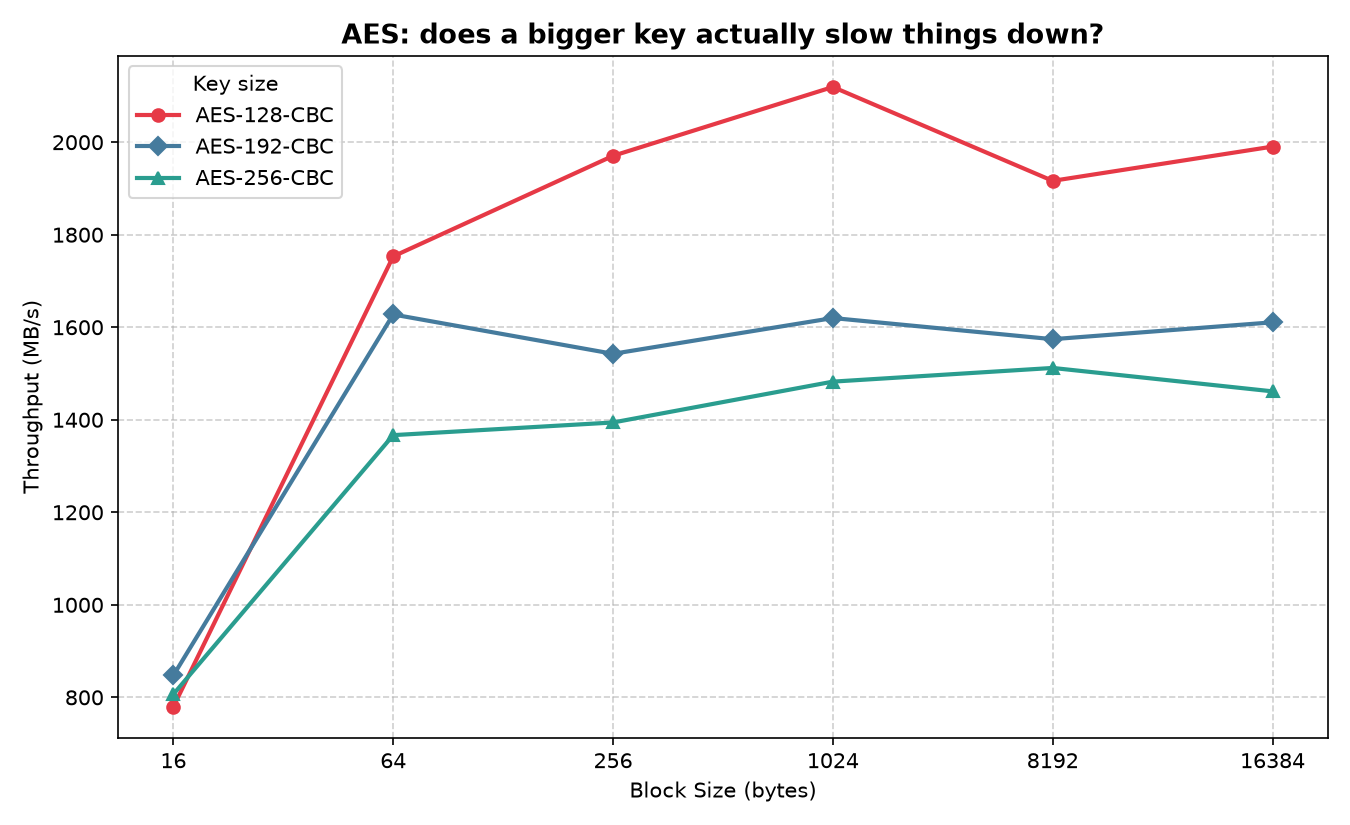
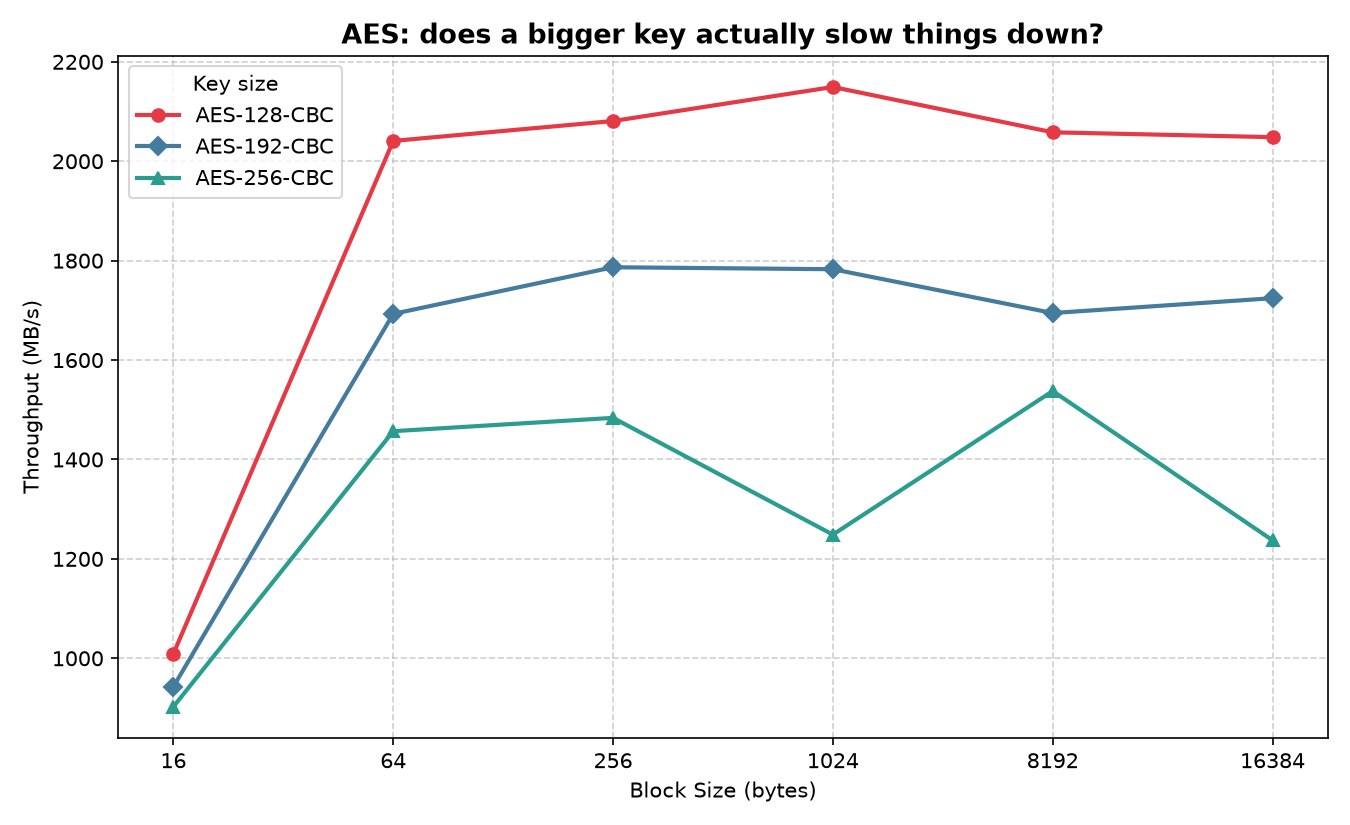
Code cleanup

diff --git a/main.py b/main.py
@@ -7,7 +7,7 @@ import task3_performance
 
 
 def run_task1():
-    print("\n=== Task 1: ECB vs CBC ===")
+    print("\nECB vs CBC")
 
     bmp_path = "mustang.bmp"
     ecb_out = "mustang_ecb.bmp"
@@ -32,7 +32,7 @@ def run_task1():
     axes[0].axis("off")
 
     axes[1].imshow(Image.open(ecb_out))
-    axes[1].set_title("ECB\n(yeah you can still tell it's a car)", color="#b83227", fontfamily="monospace")
+    axes[1].set_title("ECB\n(yeah you can still tell it's a mustang)", color="#b83227", fontfamily="monospace")
     axes[1].axis("off")
 
     axes[2].imshow(Image.open(cbc_out))
@@ -61,7 +61,7 @@ def run_task1():
 
 
 def run_task2():
-    print("\n=== Task 2: CBC Bit-Flipping Attack ===")
+    print("\nCBC Bit-Flipping Attack")
 
     normal_input = "You're the man now, dog"
     ct = task2_oracle_attack.submit(normal_input)
@@ -81,7 +81,7 @@ def run_task2():
 
 
 def run_task3():
-    print("\n=== Task 3: AES vs RSA performance ===")
+    print("\nAES vs RSA performance")
 
     aes_data = task3_performance.run_aes_benchmark()
     rsa_data = task3_performance.run_rsa_benchmark()
@@ -91,14 +91,9 @@ def run_task3():
 
 
 def main():
-    print("CSC-3201 Symmetric Key Cryptography Lab - running all tasks")
-
     run_task1()
     run_task2()
     run_task3()
-
-    print("\nDone - all three tasks ran without errors.")
-
 
 if __name__ == "__main__":
     main()

diff --git a/task1_modes.py b/task1_modes.py
@@ -165,7 +165,7 @@ if __name__ == "__main__":
     msg = b"Computer Security Lab - testing the ECB and CBC implementations!"
 
     assert decrypt_ecb(encrypt_ecb(msg, key), key) == msg, "ECB round-trip failed"
-    print("  ECB round-trip OK")
+    print("  ECB round-trip ok")
 
     assert decrypt_cbc(encrypt_cbc(msg, key, iv), key, iv) == msg, "CBC round-trip failed"
-    print("  CBC round-trip OK")
+    print("  CBC round-trip ok")
